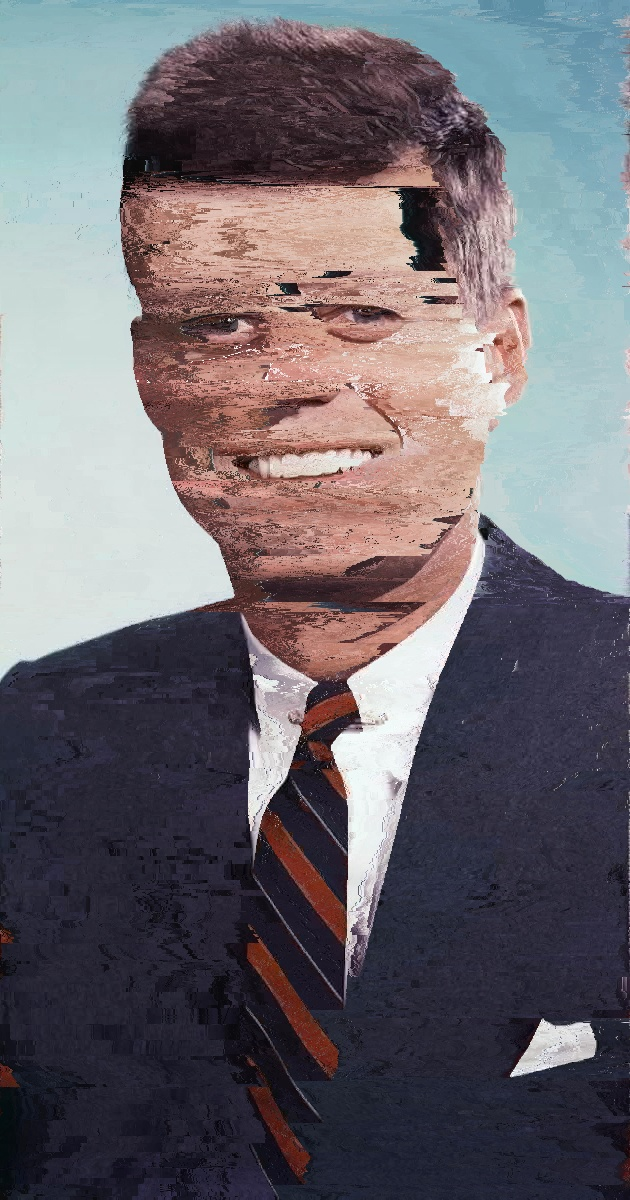
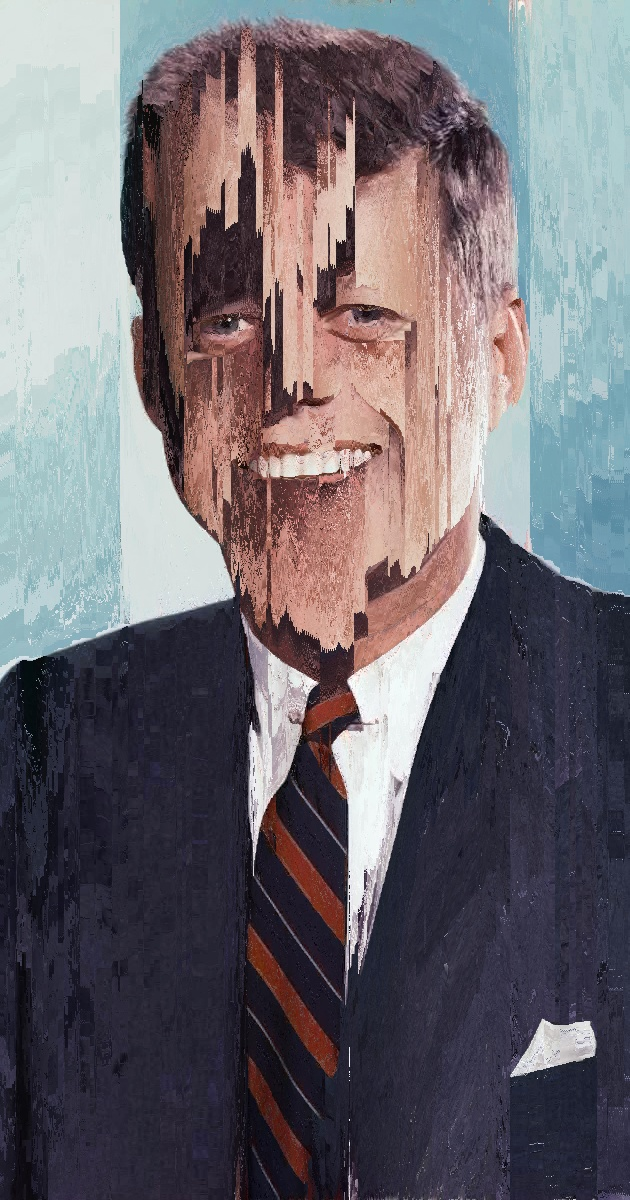
added column sorting. something wrong with gradient and region sort

diff --git a/sort.py b/sort.py
@@ -2,8 +2,8 @@ import cv2
 import numpy as np
 import os
 
-def edge_guided_pixel_sort(img, canny_low=50, canny_high=150, sort_key='brightness'):
-    """Perform edge-guided pixel sorting on an image."""
+def edge_guided_pixel_sort(img, canny_low=50, canny_high=150, sort_key='brightness', sort_method='row'):
+    """Perform edge-guided pixel sorting on an image with optional sorting methods."""
     # Convert image to HSV
     hsv = cv2.cvtColor(img, cv2.COLOR_BGR2HSV)
     h, s, v = cv2.split(hsv)
@@ -19,10 +19,30 @@ def edge_guided_pixel_sort(img, canny_low=50, canny_high=150, sort_key='brightne
     else:  # brightness
         sort_channel = v
 
-    # Process each row
-    for y in range(img.shape[0]):
+    # Apply the selected sorting method
+    if sort_method == 'row':
+        # Row-based sorting (default)
+        v, h, s = _sort_rows(v, h, s, edges, sort_channel)
+    elif sort_method == 'column':
+        # Column-based sorting (multi-directional)
+        v, h, s = _sort_columns(v, h, s, edges, sort_channel)
+    elif sort_method == 'gradient':
+        # Gradient-based sorting
+        v, h, s = _sort_gradient(img, v, h, s, edges, sort_channel)
+    elif sort_method == 'region':
+        # Region-based sorting
+        v, h, s = _sort_regions(v, h, s, edges, sort_channel)
+    else:
+        raise ValueError(f"Invalid sort_method: {sort_method}. Choose from 'row', 'column', 'gradient', or 'region'.")
+
+    # Reconstruct and return the sorted image
+    return cv2.cvtColor(cv2.merge([h, s, v]), cv2.COLOR_HSV2BGR)
+
+def _sort_rows(v, h, s, edges, sort_channel):
+    """Sort pixels row-wise within edge-bounded segments."""
+    for y in range(v.shape[0]):
         row_edges = np.where(edges[y, :] > 0)[0]
-        segments = np.split(np.arange(img.shape[1]), row_edges)
+        segments = np.split(np.arange(v.shape[1]), row_edges)
         
         for seg in segments:
             if len(seg) < 2: continue  # Skip single-pixel segments
@@ -35,11 +55,91 @@ def edge_guided_pixel_sort(img, canny_low=50, canny_high=150, sort_key='brightne
             v[y, start:end] = v[y, start:end][sorted_order]
             h[y, start:end] = h[y, start:end][sorted_order]
             s[y, start:end] = s[y, start:end][sorted_order]
+    return v, h, s
 
-    # Reconstruct and return the sorted image
-    return cv2.cvtColor(cv2.merge([h, s, v]), cv2.COLOR_HSV2BGR)
+def _sort_columns(v, h, s, edges, sort_channel):
+    """Sort pixels column-wise within edge-bounded segments."""
+    # Transpose the image for column-wise processing
+    v_t = v.T
+    h_t = h.T
+    s_t = s.T
+    edges_t = edges.T
+    
+    for x in range(v_t.shape[0]):
+        col_edges = np.where(edges_t[x, :] > 0)[0]
+        segments = np.split(np.arange(v_t.shape[1]), col_edges)
+        
+        for seg in segments:
+            if len(seg) < 2: continue  # Skip single-pixel segments
+        
+            # Get slice indices
+            start, end = seg[0], seg[-1]+1
+            
+            # Sort pixels in this segment
+            sorted_order = np.argsort(sort_channel[start:end, x])
+            v_t[x, start:end] = v_t[x, start:end][sorted_order]
+            h_t[x, start:end] = h_t[x, start:end][sorted_order]
+            s_t[x, start:end] = s_t[x, start:end][sorted_order]
+    
+    # Transpose back to original orientation
+    return v_t.T, h_t.T, s_t.T
 
-def process_folder(input_folder, output_folder, canny_low=50, canny_high=150, sort_key='brightness'):
+def _sort_gradient(img, v, h, s, edges, sort_channel):
+    """Sort pixels based on gradient direction."""
+    gray = cv2.cvtColor(img, cv2.COLOR_BGR2GRAY)
+    sobelx = cv2.Sobel(gray, cv2.CV_64F, 1, 0, ksize=3)
+    sobely = cv2.Sobel(gray, cv2.CV_64F, 0, 1, ksize=3)
+    gradient_dir = np.arctan2(sobely, sobelx)
+    
+    # Sort pixels based on gradient direction
+    for y in range(v.shape[0]):
+        for x in range(v.shape[1]):
+            if edges[y, x] > 0: continue  # Skip edges
+            
+            # Determine sorting direction based on gradient
+            if gradient_dir[y, x] > 0:
+                # Sort horizontally
+                row_edges = np.where(edges[y, :] > 0)[0]
+                segments = np.split(np.arange(v.shape[1]), row_edges)
+                for seg in segments:
+                    if len(seg) < 2: continue
+                    start, end = seg[0], seg[-1]+1
+                    sorted_order = np.argsort(sort_channel[y, start:end])
+                    v[y, start:end] = v[y, start:end][sorted_order]
+                    h[y, start:end] = h[y, start:end][sorted_order]
+                    s[y, start:end] = s[y, start:end][sorted_order]
+            else:
+                # Sort vertically
+                col_edges = np.where(edges[:, x] > 0)[0]
+                segments = np.split(np.arange(v.shape[0]), col_edges)
+                for seg in segments:
+                    if len(seg) < 2: continue
+                    start, end = seg[0], seg[-1]+1
+                    sorted_order = np.argsort(sort_channel[start:end, x])
+                    v[start:end, x] = v[start:end, x][sorted_order]
+                    h[start:end, x] = h[start:end, x][sorted_order]
+                    s[start:end, x] = s[start:end, x][sorted_order]
+    return v, h, s
+
+def _sort_regions(v, h, s, edges, sort_channel):
+    """Sort pixels within edge-bounded regions."""
+    # Use connected components to identify regions
+    _, labels = cv2.connectedComponents(255 - edges)
+    
+    for label in np.unique(labels):
+        if label == 0: continue  # Skip background
+        
+        # Create a mask for the current region
+        mask = (labels == label).astype("uint8")
+        
+        # Sort pixels within the region
+        sorted_order = np.argsort(sort_channel[mask == 1])
+        v[mask == 1] = v[mask == 1][sorted_order]
+        h[mask == 1] = h[mask == 1][sorted_order]
+        s[mask == 1] = s[mask == 1][sorted_order]
+    return v, h, s
+
+def process_folder(input_folder, output_folder, canny_low=50, canny_high=150, sort_key='brightness', sort_method='row'):
     """Process all images in a folder and save sorted images to another folder."""
     # Create output folder if it doesn't exist
     if not os.path.exists(output_folder):
@@ -58,7 +158,7 @@ def process_folder(input_folder, output_folder, canny_low=50, canny_high=150, so
             continue
         
         # Apply pixel sorting
-        sorted_img = edge_guided_pixel_sort(img, canny_low, canny_high, sort_key)
+        sorted_img = edge_guided_pixel_sort(img, canny_low, canny_high, sort_key, sort_method)
         
         # Save the sorted image
         output_path = os.path.join(output_folder, image_file)
@@ -69,4 +169,4 @@ if __name__ == "__main__":
     # Example usage
     input_folder = "input"  # Folder containing input images
     output_folder = "sorted_images"  # Folder to save sorted images
-    process_folder(input_folder, output_folder, canny_low=100, canny_high=200, sort_key='hue')
+    process_folder(input_folder, output_folder, canny_low=100, canny_high=200, sort_key='hue', sort_method='column')
